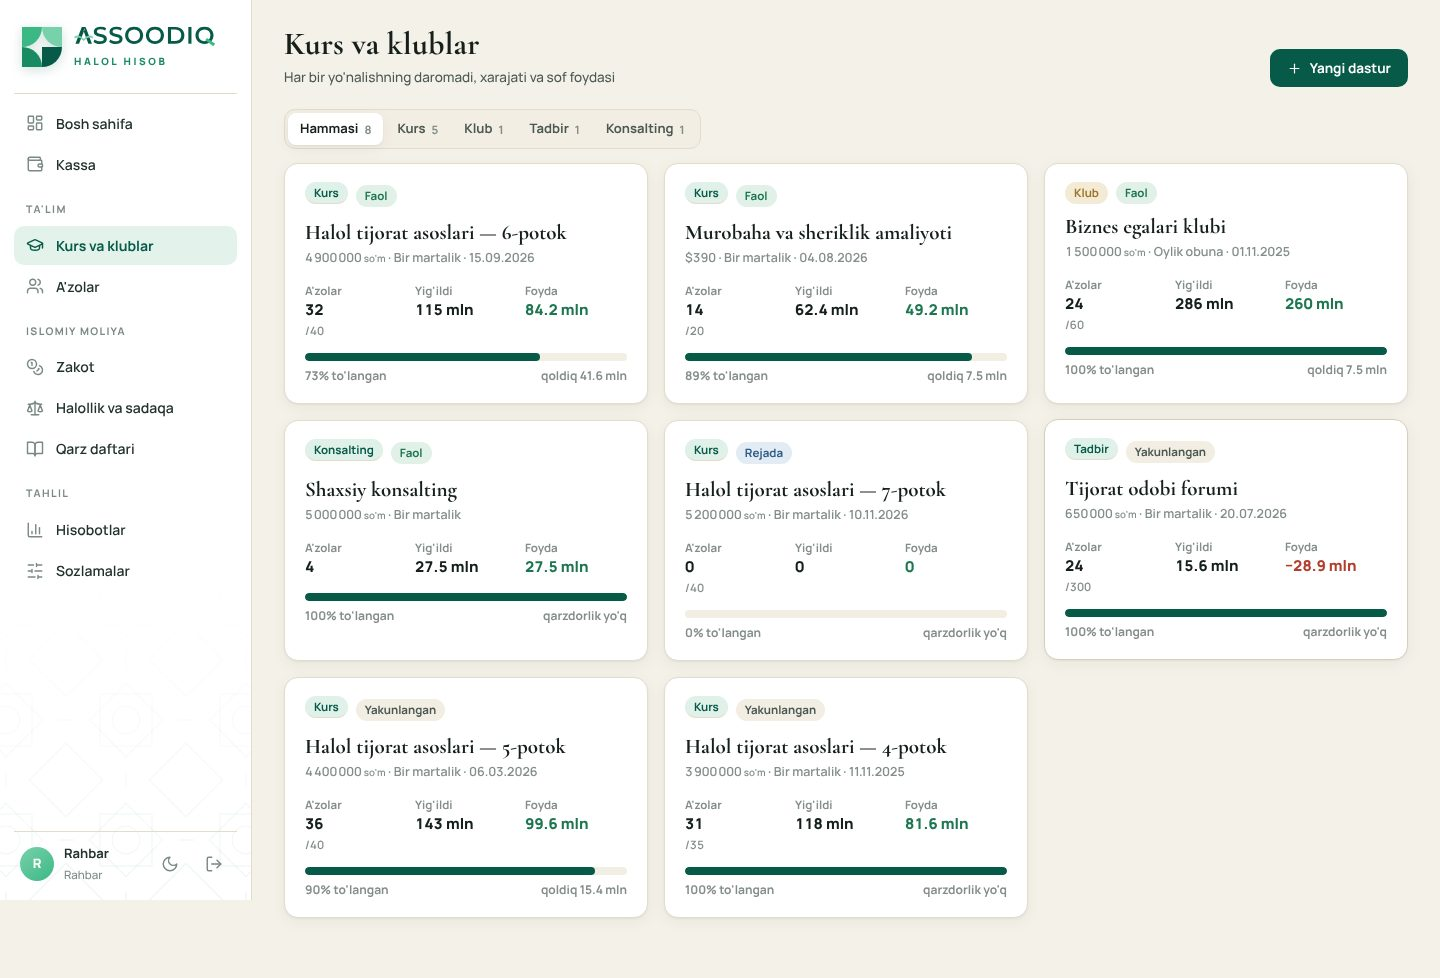
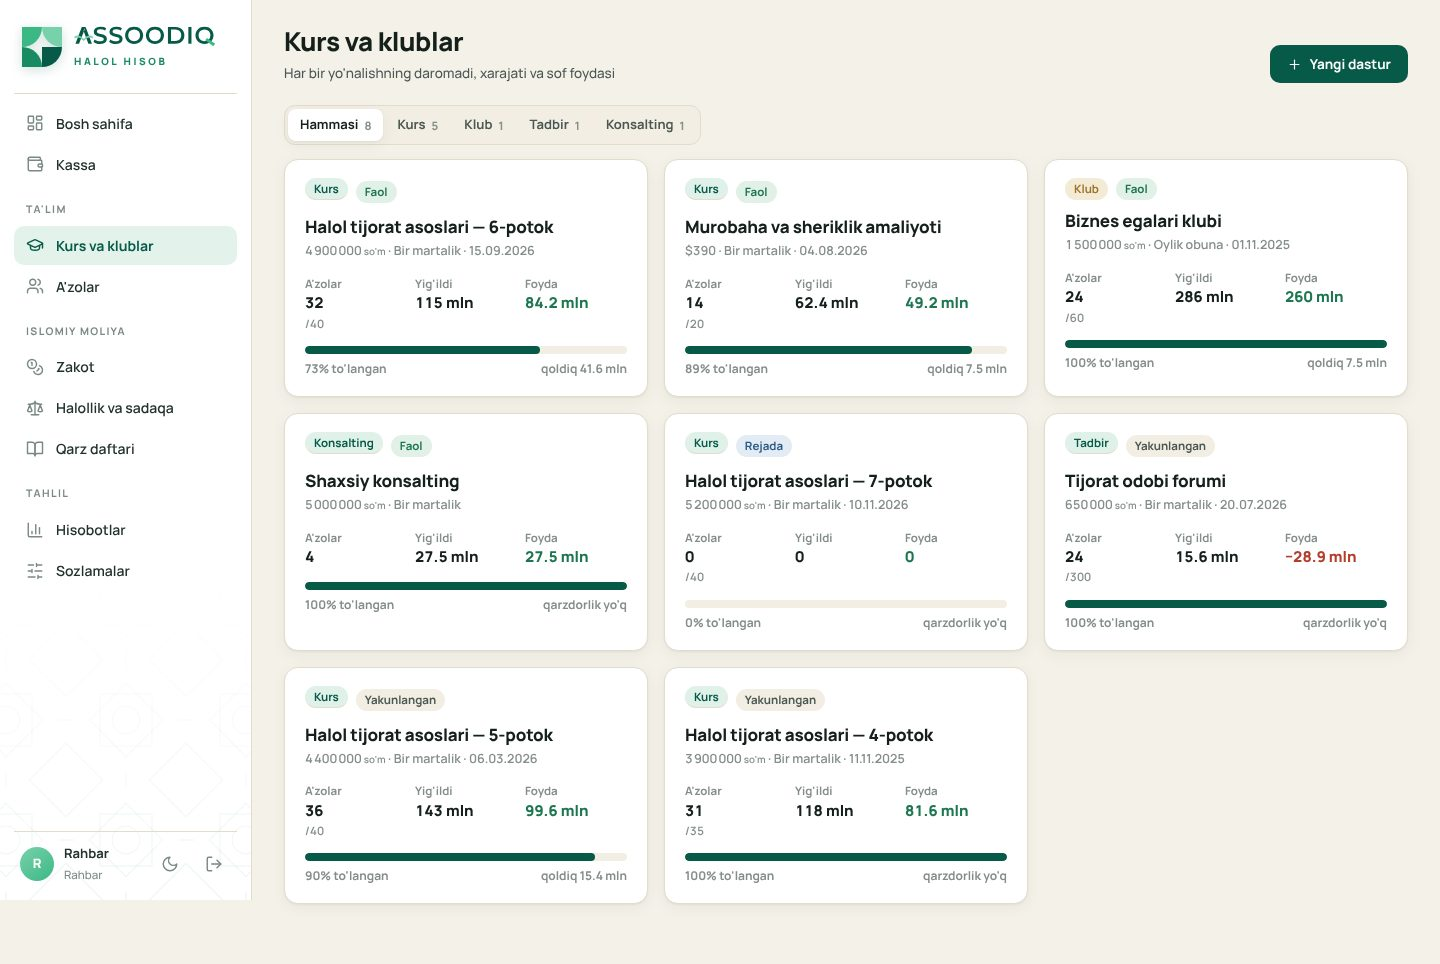
feat(login): oyatsiz, sodda shrift va to'q zumrad kod paneli
- Kirish sahifasidan oyat olib tashlandi; sarlavha vertikal markazda
- Serif (Cormorant) va arabcha shrift olib tashlandi: butun dasturda bitta
  sodda, o'qilishi oson Manrope; sarlavha o'lchamlari moslandi
- O'ng panel: to'q zumrad gradient, fonda suzuvchi logo bo'laklari va
  nafas oluvchi nur, shaffof oyna kartochka, yalpiz rangda yonuvchi kataklar
  va tugma; xato rangi to'q fonda ham o'qiladi

Claude-Session: https://claude.ai/code/session_01DkcMtNmmPnFdSFcGHH43mz

diff --git a/static/css/app.css b/static/css/app.css
@@ -41,7 +41,7 @@
   --r: 14px;
   --r-sm: 10px;
   --font: "Manrope", system-ui, -apple-system, "Segoe UI", Roboto, sans-serif;
-  --display: "Cormorant Garamond", "Cormorant", Georgia, serif;
+  --display: "Manrope", system-ui, -apple-system, "Segoe UI", Roboto, sans-serif;
   color-scheme: light;
 }
 
@@ -148,7 +148,7 @@ h1, h2, h3, h4 { margin: 0; font-weight: 700; }
 
 /* ── Sahifa sarlavhasi ─────────────────────────────────────────────────── */
 .head { display: flex; align-items: flex-end; gap: 16px; margin-bottom: 22px; flex-wrap: wrap; }
-.head-t { font: 700 32px/1.1 var(--display); letter-spacing: .2px; }
+.head-t { font: 800 26px/1.2 var(--display); letter-spacing: -.4px; }
 .head-s { color: var(--txt2); margin-top: 6px; font-size: 13.5px; }
 .head-s b { color: var(--txt); font-weight: 700; }
 .head-a { margin-left: auto; display: flex; gap: 8px; flex-wrap: wrap; align-items: center; }
@@ -305,7 +305,7 @@ a.stat:hover { border-color: var(--line2); }
 .prog { padding: 18px 20px; display: flex; flex-direction: column; gap: 14px; transition: border-color .15s, transform .15s; }
 .prog:hover { border-color: var(--line2); transform: translateY(-1px); }
 .prog-top { display: flex; gap: 8px; align-items: center; }
-.prog h3 { font: 700 21px/1.2 var(--display); }
+.prog h3 { font: 750 17px/1.3 var(--display); letter-spacing: -.2px; }
 .prog .meta { color: var(--txt3); font-size: 12.5px; font-weight: 600; margin-top: 4px; }
 .kv { display: grid; grid-template-columns: repeat(3, 1fr); gap: 8px; }
 .kv div span { display: block; font-size: 11.5px; color: var(--txt3); font-weight: 650; }
@@ -314,7 +314,7 @@ a.stat:hover { border-color: var(--line2); }
 
 /* ── Islomiy bloklar ───────────────────────────────────────────────────── */
 .ayah { position: relative; padding: 18px 22px; border-radius: var(--r); background: var(--gold-bg); border: 1px solid color-mix(in srgb, var(--gold) 25%, transparent); color: var(--txt); }
-.ayah p { margin: 0; font: italic 600 18px/1.45 var(--display); }
+.ayah p { margin: 0; font: 600 15px/1.55 var(--font); }
 .ayah small { display: block; margin-top: 6px; color: var(--gold); font-weight: 700; font-size: 12px; letter-spacing: .4px; }
 .ring { --p: 0; width: 120px; height: 120px; border-radius: 50%; background: conic-gradient(var(--gold) calc(var(--p) * 1%), var(--surface2) 0); display: grid; place-items: center; flex: none; }
 .ring::before { content: ""; grid-area: 1 / 1; width: 94px; height: 94px; border-radius: 50%; background: var(--surface); }
@@ -354,7 +354,7 @@ input:focus, select:focus, textarea:focus { border-color: var(--brand); box-shad
 dialog.modal { border: 0; padding: 0; border-radius: 18px; width: min(560px, calc(100vw - 32px)); max-height: calc(100vh - 48px); background: var(--surface); color: var(--txt); box-shadow: var(--shadow-lg); }
 dialog.modal::backdrop { background: rgba(6, 20, 15, .45); backdrop-filter: blur(3px); }
 .modal-h { display: flex; align-items: center; gap: 10px; padding: 18px 22px; border-bottom: 1px solid var(--line); position: sticky; top: 0; background: var(--surface); z-index: 2; }
-.modal-h h3 { font: 700 22px var(--display); }
+.modal-h h3 { font: 750 18px var(--display); letter-spacing: -.2px; }
 .modal-h .icon-btn { margin-left: auto; color: var(--txt3); }
 .modal-b { padding: 18px 22px; display: flex; flex-direction: column; gap: 14px; }
 .modal-f { padding: 14px 22px 18px; display: flex; gap: 8px; justify-content: flex-end; border-top: 1px solid var(--line); position: sticky; bottom: 0; background: var(--surface); }
@@ -397,12 +397,12 @@ details.more .menu { position: absolute; right: 0; top: calc(100% + 4px); backgr
 .login-lockup .mark { width: 64px; height: 64px; filter: drop-shadow(0 10px 22px rgba(6, 90, 71, .25)); }
 .login-lockup .wordmark { width: 220px; --logo-txt: #065A47; }
 .login-lockup .brand-sub { color: #188B63; margin-top: -2px; }
-.login-hero { max-width: 560px; }
+.login-hero { max-width: 560px; margin: auto 0; }
 .eyebrow { display: inline-flex; align-items: center; gap: 10px; font-size: 11.5px; font-weight: 800; letter-spacing: 2.4px; text-transform: uppercase; color: #188B63; margin-bottom: 18px; }
 .eyebrow span { width: 28px; height: 2px; border-radius: 2px; background: linear-gradient(90deg, #3CB885, #065A47); }
-.login-art h1 { font: 700 clamp(40px, 4.4vw, 60px)/1.04 var(--display); color: #08392C; letter-spacing: -.3px; margin: 0; }
+.login-art h1 { font: 800 clamp(32px, 3.4vw, 46px)/1.15 var(--display); color: #08392C; letter-spacing: -1px; margin: 0; }
 .login-art h1 > span { display: block; }
-.type-line { color: #188B63; font-style: italic; min-height: 2.1em; }
+.type-line { color: #188B63; min-height: 2.3em; }
 .type { background: linear-gradient(90deg, #188B63, #065A47); -webkit-background-clip: text; background-clip: text; color: transparent; }
 .caret { display: inline-block; width: 3px; height: .82em; margin-left: 4px; vertical-align: -.06em; border-radius: 2px; background: #3CB885; animation: caret 1s steps(1) infinite; }
 @keyframes caret { 50% { opacity: 0; } }
@@ -412,52 +412,78 @@ details.more .menu { position: absolute; right: 0; top: calc(100% + 4px); backgr
 .login-points .ic { width: 38px; height: 38px; padding: 9px; border-radius: 11px; background: rgba(255, 255, 255, .8); color: #065A47; box-shadow: 0 4px 14px rgba(6, 90, 71, .1); flex: none; }
 .login-points b { display: block; font-size: 14.5px; color: #0B3A2E; }
 .login-points span { font-size: 13px; color: #4F6D61; }
-.login-ayah { margin: 0; max-width: 520px; padding: 20px 24px; border-radius: 16px; background: rgba(255, 255, 255, .7); border: 1px solid rgba(24, 139, 99, .18); backdrop-filter: blur(6px); box-shadow: 0 10px 34px rgba(6, 90, 71, .08); }
-.login-ayah blockquote { margin: 0; }
-.login-ayah .ar { font: 400 22px/1.9 "Amiri", serif; color: #065A47; margin: 0 0 6px; text-align: right; }
-.login-ayah .tr { font: italic 600 16px/1.5 var(--display); color: #1D4A3D; margin: 0; }
-.login-ayah figcaption { margin-top: 10px; font-size: 11px; font-weight: 800; letter-spacing: 1.6px; text-transform: uppercase; color: #188B63; }
 
-.login-form { position: relative; display: flex; flex-direction: column; align-items: center; justify-content: center; padding: 40px 32px 24px; background: var(--surface); }
-.login-box { width: min(380px, 100%); margin: auto 0; animation: fade-up .6s ease .15s both; }
+.login-form {
+  position: relative; overflow: hidden; display: flex; flex-direction: column; align-items: center; justify-content: center; padding: 40px 32px 24px;
+  background:
+    radial-gradient(circle at 85% 8%, rgba(120, 209, 171, .30) 0, transparent 42%),
+    radial-gradient(circle at 5% 95%, rgba(60, 184, 133, .26) 0, transparent 48%),
+    linear-gradient(160deg, #086650 0%, #054536 55%, #032A21 100%);
+  color: #EAF6F0;
+  --lf-txt: #FFFFFF; --lf-txt2: rgba(234, 246, 240, .74); --lf-txt3: rgba(234, 246, 240, .55);
+  --lf-cell: rgba(255, 255, 255, .07); --lf-line: rgba(255, 255, 255, .18); --lf-mint: #8EE0BC; --lf-bad: #FFB0A2;
+}
+.login-form::before { content: ""; position: absolute; inset: 0; background: url("../img/pattern.svg") center/130px; opacity: .55; pointer-events: none;
+  -webkit-mask-image: linear-gradient(180deg, transparent, #000 40%, transparent); mask-image: linear-gradient(180deg, transparent, #000 40%, transparent); }
+/* logo bo'laklari fonda sekin suzadi */
+.login-deco { position: absolute; width: 560px; height: 560px; right: -170px; bottom: -190px; pointer-events: none; opacity: .14; }
+.login-deco path { transform-box: fill-box; animation: drift 14s ease-in-out infinite alternate; }
+.login-deco .d1 { fill: #3CB885; transform-origin: 0 0; }
+.login-deco .d2 { fill: #78D1AB; transform-origin: 100% 0; animation-delay: -3s; }
+.login-deco .d3 { fill: #188B63; transform-origin: 0 100%; animation-delay: -6s; }
+.login-deco .d4 { fill: #B5EBD3; transform-origin: 0 0; animation-delay: -9s; }
+@keyframes drift { from { transform: translate(0, 0) scale(1); } to { transform: translate(-10px, -14px) scale(1.04); } }
+.login-glow { position: absolute; width: 380px; height: 380px; left: 50%; top: 50%; margin: -190px 0 0 -190px; border-radius: 50%; background: radial-gradient(circle, rgba(120, 209, 171, .22), transparent 65%); filter: blur(10px); animation: breathe 6s ease-in-out infinite; pointer-events: none; }
+@keyframes breathe { 50% { transform: scale(1.12); opacity: .7; } }
+.login-form > form, .login-foot { position: relative; z-index: 1; }
+.login-box {
+  width: min(420px, 100%); margin: auto 0; padding: 36px 34px 30px; border-radius: 24px;
+  background: linear-gradient(160deg, rgba(255, 255, 255, .11), rgba(255, 255, 255, .04));
+  border: 1px solid rgba(255, 255, 255, .14);
+  -webkit-backdrop-filter: blur(16px); backdrop-filter: blur(16px);
+  box-shadow: 0 30px 70px rgba(0, 20, 14, .35), inset 0 1px 0 rgba(255, 255, 255, .12);
+  animation: fade-up .6s ease .15s both;
+}
+.login-box::before { content: ""; position: absolute; left: 34px; right: 34px; top: -1px; height: 2px; border-radius: 2px; background: linear-gradient(90deg, transparent, #8EE0BC, transparent); }
 .login-mob-mark { display: none; }
-.login-box h2 { font: 700 34px/1.1 var(--display); margin: 0; }
-.login-sub { color: var(--txt2); margin: 8px 0 28px; font-size: 14.5px; }
-.login-box .fl { display: block; font-size: 12.5px; font-weight: 700; color: var(--txt2); margin-bottom: 8px; }
+.login-box h2 { color: var(--lf-txt); }
+.login-sub { color: var(--lf-txt2); margin: 8px 0 28px; font-size: 14.5px; line-height: 1.55; }
+.login-box .fl { display: block; font-size: 12.5px; font-weight: 700; color: var(--lf-mint); letter-spacing: .3px; margin-bottom: 8px; }
 .otp { position: relative; }
-.otp input { width: 100%; height: 60px; border-radius: 14px; border: 1px solid var(--line2); background: var(--surface); padding: 0 52px 0 18px; font: 800 26px var(--font); letter-spacing: 14px; color: var(--txt); text-align: center; }
-.otp input:focus { border-color: var(--brand); box-shadow: 0 0 0 4px color-mix(in srgb, var(--brand) 16%, transparent); outline: none; }
+.otp input { width: 100%; height: 60px; border-radius: 14px; border: 1px solid var(--lf-line); background: var(--lf-cell); padding: 0 18px; font: 800 26px var(--font); letter-spacing: 14px; color: var(--lf-txt); text-align: center; }
+.otp input:focus { border-color: var(--lf-mint); box-shadow: 0 0 0 4px rgba(142, 224, 188, .18); outline: none; }
 .otp-cells { display: none; }
 /* JS bo'lsa: 6 ta katak ko'rinadi, haqiqiy maydon ularning ustida shaffof turadi */
 .js .otp input { position: absolute; inset: 0; height: 100%; opacity: 0; z-index: 2; cursor: text; letter-spacing: 0; padding: 0; }
-.js .otp-cells { display: grid; grid-template-columns: repeat(6, 1fr); gap: 10px; padding-right: 0; }
-.otp-cells span { height: 60px; border-radius: 14px; border: 1px solid var(--line2); background: var(--surface); display: grid; place-items: center; font: 800 24px var(--font); color: var(--txt); transition: border-color .15s, box-shadow .15s, transform .15s; }
-.otp-cells span.filled { border-color: color-mix(in srgb, var(--brand) 45%, var(--line2)); background: var(--brand-bg); }
-.otp-cells span.filled.is-dot::after { content: ""; width: 12px; height: 12px; border-radius: 50%; background: var(--brand); }
-.otp.focus .otp-cells span.active { border-color: var(--brand); box-shadow: 0 0 0 4px color-mix(in srgb, var(--brand) 16%, transparent); }
-.otp.focus .otp-cells span.active:not(.filled)::after { content: ""; width: 2px; height: 26px; background: var(--brand); animation: caret 1s steps(1) infinite; }
-.otp.has-error .otp-cells span, .otp.has-error input { border-color: var(--bad); }
+.js .otp-cells { display: grid; grid-template-columns: repeat(6, 1fr); gap: 10px; }
+.otp-cells span { height: 60px; border-radius: 14px; border: 1px solid var(--lf-line); background: var(--lf-cell); display: grid; place-items: center; font: 800 24px var(--font); color: var(--lf-txt); transition: border-color .2s, box-shadow .2s, background .2s, transform .2s; }
+.otp-cells span.filled { border-color: rgba(142, 224, 188, .7); background: rgba(142, 224, 188, .14); transform: translateY(-2px); }
+.otp-cells span.filled.is-dot::after { content: ""; width: 12px; height: 12px; border-radius: 50%; background: var(--lf-mint); box-shadow: 0 0 12px rgba(142, 224, 188, .9); }
+.otp.focus .otp-cells span.active { border-color: var(--lf-mint); box-shadow: 0 0 0 4px rgba(142, 224, 188, .18), 0 0 24px rgba(142, 224, 188, .25); }
+.otp.focus .otp-cells span.active:not(.filled)::after { content: ""; width: 2px; height: 26px; background: var(--lf-mint); animation: caret 1s steps(1) infinite; }
+.otp.has-error .otp-cells span, .otp.has-error input { border-color: var(--lf-bad); }
 .otp.shake { animation: shake .4s ease; }
 @keyframes shake { 20%, 60% { transform: translateX(-6px); } 40%, 80% { transform: translateX(6px); } }
 .otp-head { display: flex; align-items: center; justify-content: space-between; margin-bottom: 8px; }
 .otp-head .fl { margin-bottom: 0 !important; }
 .otp-eye { display: none; }
-.js .otp-eye { display: inline-flex; align-items: center; gap: 6px; height: 30px; padding: 0 10px; border-radius: 8px; border: 0; background: transparent; color: var(--txt3); font: 700 12.5px var(--font); cursor: pointer; }
-.otp-eye:hover { background: var(--surface2); color: var(--txt2); }
-.otp-eye[aria-pressed="true"] { color: var(--brand-txt); }
-.login-err { display: flex; align-items: center; gap: 8px; color: var(--bad); font-weight: 700; font-size: 13px; margin: 10px 0 0; }
-.login-help { color: var(--txt3); font-size: 12.5px; margin: 10px 0 0; }
-.login-btn { height: 52px !important; margin-top: 22px; font-size: 15px !important; border-radius: 14px !important; background: linear-gradient(135deg, #188B63, #065A47) !important; box-shadow: 0 10px 24px rgba(6, 90, 71, .22); transition: transform .15s, box-shadow .15s; }
-.login-btn:hover { transform: translateY(-1px); box-shadow: 0 14px 28px rgba(6, 90, 71, .28); }
-.login-btn:focus-visible { outline: 3px solid color-mix(in srgb, var(--brand) 40%, transparent); outline-offset: 3px; }
+.js .otp-eye { display: inline-flex; align-items: center; gap: 6px; height: 30px; padding: 0 10px; border-radius: 8px; border: 0; background: transparent; color: var(--lf-txt3); font: 700 12.5px var(--font); cursor: pointer; }
+.otp-eye:hover { background: rgba(255, 255, 255, .08); color: var(--lf-txt); }
+.otp-eye[aria-pressed="true"] { color: var(--lf-mint); }
+.login-err { display: flex; align-items: center; gap: 8px; color: var(--lf-bad); font-weight: 700; font-size: 13px; margin: 10px 0 0; }
+.login-help { color: var(--lf-txt3); font-size: 12.5px; margin: 10px 0 0; line-height: 1.5; }
+.login-btn { height: 52px !important; margin-top: 22px; font-size: 15px !important; font-weight: 800 !important; border-radius: 14px !important; color: #04382B !important; background: linear-gradient(135deg, #B5EFD6, #5CCB9C) !important; box-shadow: 0 12px 28px rgba(0, 0, 0, .25), 0 0 0 1px rgba(255, 255, 255, .2) inset; transition: transform .15s, box-shadow .15s, filter .15s; }
+.login-btn:hover { transform: translateY(-1px); filter: brightness(1.04); box-shadow: 0 16px 34px rgba(0, 0, 0, .3), 0 0 30px rgba(142, 224, 188, .35); }
+.login-btn:focus-visible { outline: 3px solid rgba(142, 224, 188, .55); outline-offset: 3px; }
 .login-btn .lbl-idle, .login-btn .lbl-busy { display: inline-flex; align-items: center; gap: 8px; }
 .login-btn .lbl-busy { display: none; }
 .login-btn.busy .lbl-idle { display: none; }
 .login-btn.busy .lbl-busy { display: inline-flex; }
-.spin { width: 16px; height: 16px; border-radius: 50%; border: 2px solid rgba(255, 255, 255, .35); border-top-color: #fff; animation: star-spin .7s linear infinite; }
-.login-note { display: flex; gap: 10px; align-items: flex-start; margin-top: 26px; padding: 14px 16px; border-radius: 12px; background: var(--surface2); color: var(--txt2); font-size: 12.5px; }
-.login-note .ic { color: var(--brand-txt); margin-top: 1px; }
-.login-foot { margin-top: 24px; font-size: 12px; color: var(--txt3); }
+.spin { width: 16px; height: 16px; border-radius: 50%; border: 2px solid rgba(4, 56, 43, .25); border-top-color: #04382B; animation: star-spin .7s linear infinite; }
+.login-note { display: flex; gap: 10px; align-items: flex-start; margin-top: 24px; padding: 14px 16px; border-radius: 12px; background: rgba(0, 0, 0, .14); border: 1px solid rgba(255, 255, 255, .08); color: var(--lf-txt2); font-size: 12.5px; line-height: 1.5; }
+.login-note .ic { color: var(--lf-mint); margin-top: 1px; }
+.login-foot { margin-top: 24px; font-size: 12px; color: var(--lf-txt3); }
+@media (prefers-reduced-motion: reduce) { .login-deco path, .login-glow, .login-star { animation: none !important; } }
 /* logo bo'laklari burchakdan yig'iladi */
 .login-lockup .q { transform-box: fill-box; animation: q-in .7s cubic-bezier(.2, .8, .2, 1.15) both; }
 .login-lockup .q1 { transform-origin: 0 0; animation-delay: .05s; }
@@ -472,10 +498,6 @@ details.more .menu { position: absolute; right: 0; top: calc(100% + 4px); backgr
 @media (prefers-color-scheme: dark) {
   :root:not([data-theme="light"]) .side .mark .q4, :root:not([data-theme="light"]) .topbar .mark .q4 { fill: #12805F; }
 }
-.login-form { display: grid; place-items: center; padding: 32px; background: var(--surface); }
-.login-box { width: min(360px, 100%); }
-.login-box h2 { font: 700 30px var(--display); }
-.code-in { font-size: 28px !important; height: 60px !important; letter-spacing: 12px; text-align: center; font-weight: 800 !important; }
 
 /* Tab */
 .tabs { display: flex; gap: 4px; border-bottom: 1px solid var(--line); margin-bottom: 18px; overflow-x: auto; }
@@ -525,12 +547,15 @@ details.more .menu { position: absolute; right: 0; top: calc(100% + 4px); backgr
   .login-lockup .mark { width: 40px; height: 40px; }
   .login-lockup .wordmark { width: 150px; }
   .login-lockup .brand-sub { display: none; }
-  .login-art h1 { font-size: 34px; }
+  .login-art h1 { font-size: 28px; letter-spacing: -.6px; }
   .type-line { min-height: 2.1em; }
-  .login-points, .login-ayah { display: none; }
+  .login-points { display: none; }
   .eyebrow { margin-bottom: 12px; }
   .login-form { padding: 28px 20px 24px; justify-content: flex-start; }
-  .login-box h2 { font-size: 28px; }
+  .login-box { padding: 26px 20px 22px; }
+  .login-box::before { left: 20px; right: 20px; }
+  .login-box h2 { font-size: 23px; }
+  .login-deco { width: 380px; height: 380px; right: -150px; bottom: -150px; }
   .js .otp-cells { gap: 8px; }
   .otp-cells span { height: 54px; }
 

diff --git a/templates/base.html b/templates/base.html
@@ -11,8 +11,8 @@
   <meta name="theme-color" content="#065A47">
   <link rel="preconnect" href="https://fonts.googleapis.com">
   <link rel="preconnect" href="https://fonts.gstatic.com" crossorigin>
-  <link href="https://fonts.googleapis.com/css2?family=Amiri:wght@400;700&family=Cormorant+Garamond:ital,wght@0,600;0,700;1,600&family=Manrope:wght@500;600;700;800&display=swap" rel="stylesheet">
-  <link rel="stylesheet" href="{{ url_for('static', filename='css/app.css') }}?v=4">
+  <link href="https://fonts.googleapis.com/css2?family=Manrope:wght@400;500;600;700;800&display=swap" rel="stylesheet">
+  <link rel="stylesheet" href="{{ url_for('static', filename='css/app.css') }}?v=5">
   <script>
     document.documentElement.classList.add('js');
     try { var t = localStorage.getItem('theme'); if (t) document.documentElement.dataset.theme = t; } catch (e) {}
@@ -79,7 +79,7 @@
   {% for cat, msg in get_flashed_messages(with_categories=true) %}<div class="flash {{ cat }}">{{ msg }}</div>{% endfor %}
 </div>
 {% endblock %}
-<script src="{{ url_for('static', filename='js/app.js') }}?v=4"></script>
+<script src="{{ url_for('static', filename='js/app.js') }}?v=5"></script>
 {% block scripts %}{% endblock %}
 </body>
 </html>

diff --git a/templates/pages/login.html b/templates/pages/login.html
@@ -35,16 +35,14 @@
       </ul>
     </div>
 
-    <figure class="login-ayah">
-      <blockquote>
-        <p class="ar" lang="ar" dir="rtl">يَا أَيُّهَا الَّذِينَ آمَنُوا إِذَا تَدَايَنتُم بِدَيْنٍ إِلَىٰ أَجَلٍ مُّسَمًّى فَاكْتُبُوهُ</p>
-        <p class="tr">«Ey imon keltirganlar! Qachon bir-biringizga ma'lum muddatgacha qarz bersangiz, uni yozib qo'yinglar.»</p>
-      </blockquote>
-      <figcaption>Baqara surasi, 282-oyat</figcaption>
-    </figure>
   </section>
 
   <section class="login-form">
+    <svg class="login-deco" viewBox="0 0 48 48" aria-hidden="true">
+      <path class="d1" d="M0,0H24A24,24 0 0 1 0,24Z"/><path class="d2" d="M48,0H24A24,24 0 0 0 48,24Z"/>
+      <path class="d3" d="M0,48H24A24,24 0 0 0 0,24Z"/><path class="d4" d="M24,24H48A24,24 0 0 1 24,48Z"/>
+    </svg>
+    <div class="login-glow" aria-hidden="true"></div>
     <form class="login-box" method="post" novalidate data-login>
       <div class="login-mob-mark">{% include "partials/mark.svg" %}</div>
       <h2>Xush kelibsiz</h2>

diff --git a/templates/pages/zakat.html b/templates/pages/zakat.html
@@ -56,7 +56,7 @@
           <div class="ring" style="--p: {{ ((354 - hawl.days) / 354 * 100)|round }}"><span>{{ hawl.days }}<small>kun qoldi</small></span></div>
           <div>
             <div class="faint" style="font-size:12.5px;font-weight:700">Keyingi zakot sanasi</div>
-            <div style="font:700 22px var(--display)" class="gold-t">{{ hawl.date|hijri }}</div>
+            <div style="font:800 20px var(--display);letter-spacing:-.2px" class="gold-t">{{ hawl.date|hijri }}</div>
             <div class="muted">{{ hawl.date|d('long') }}</div>
           </div>
         </div>
